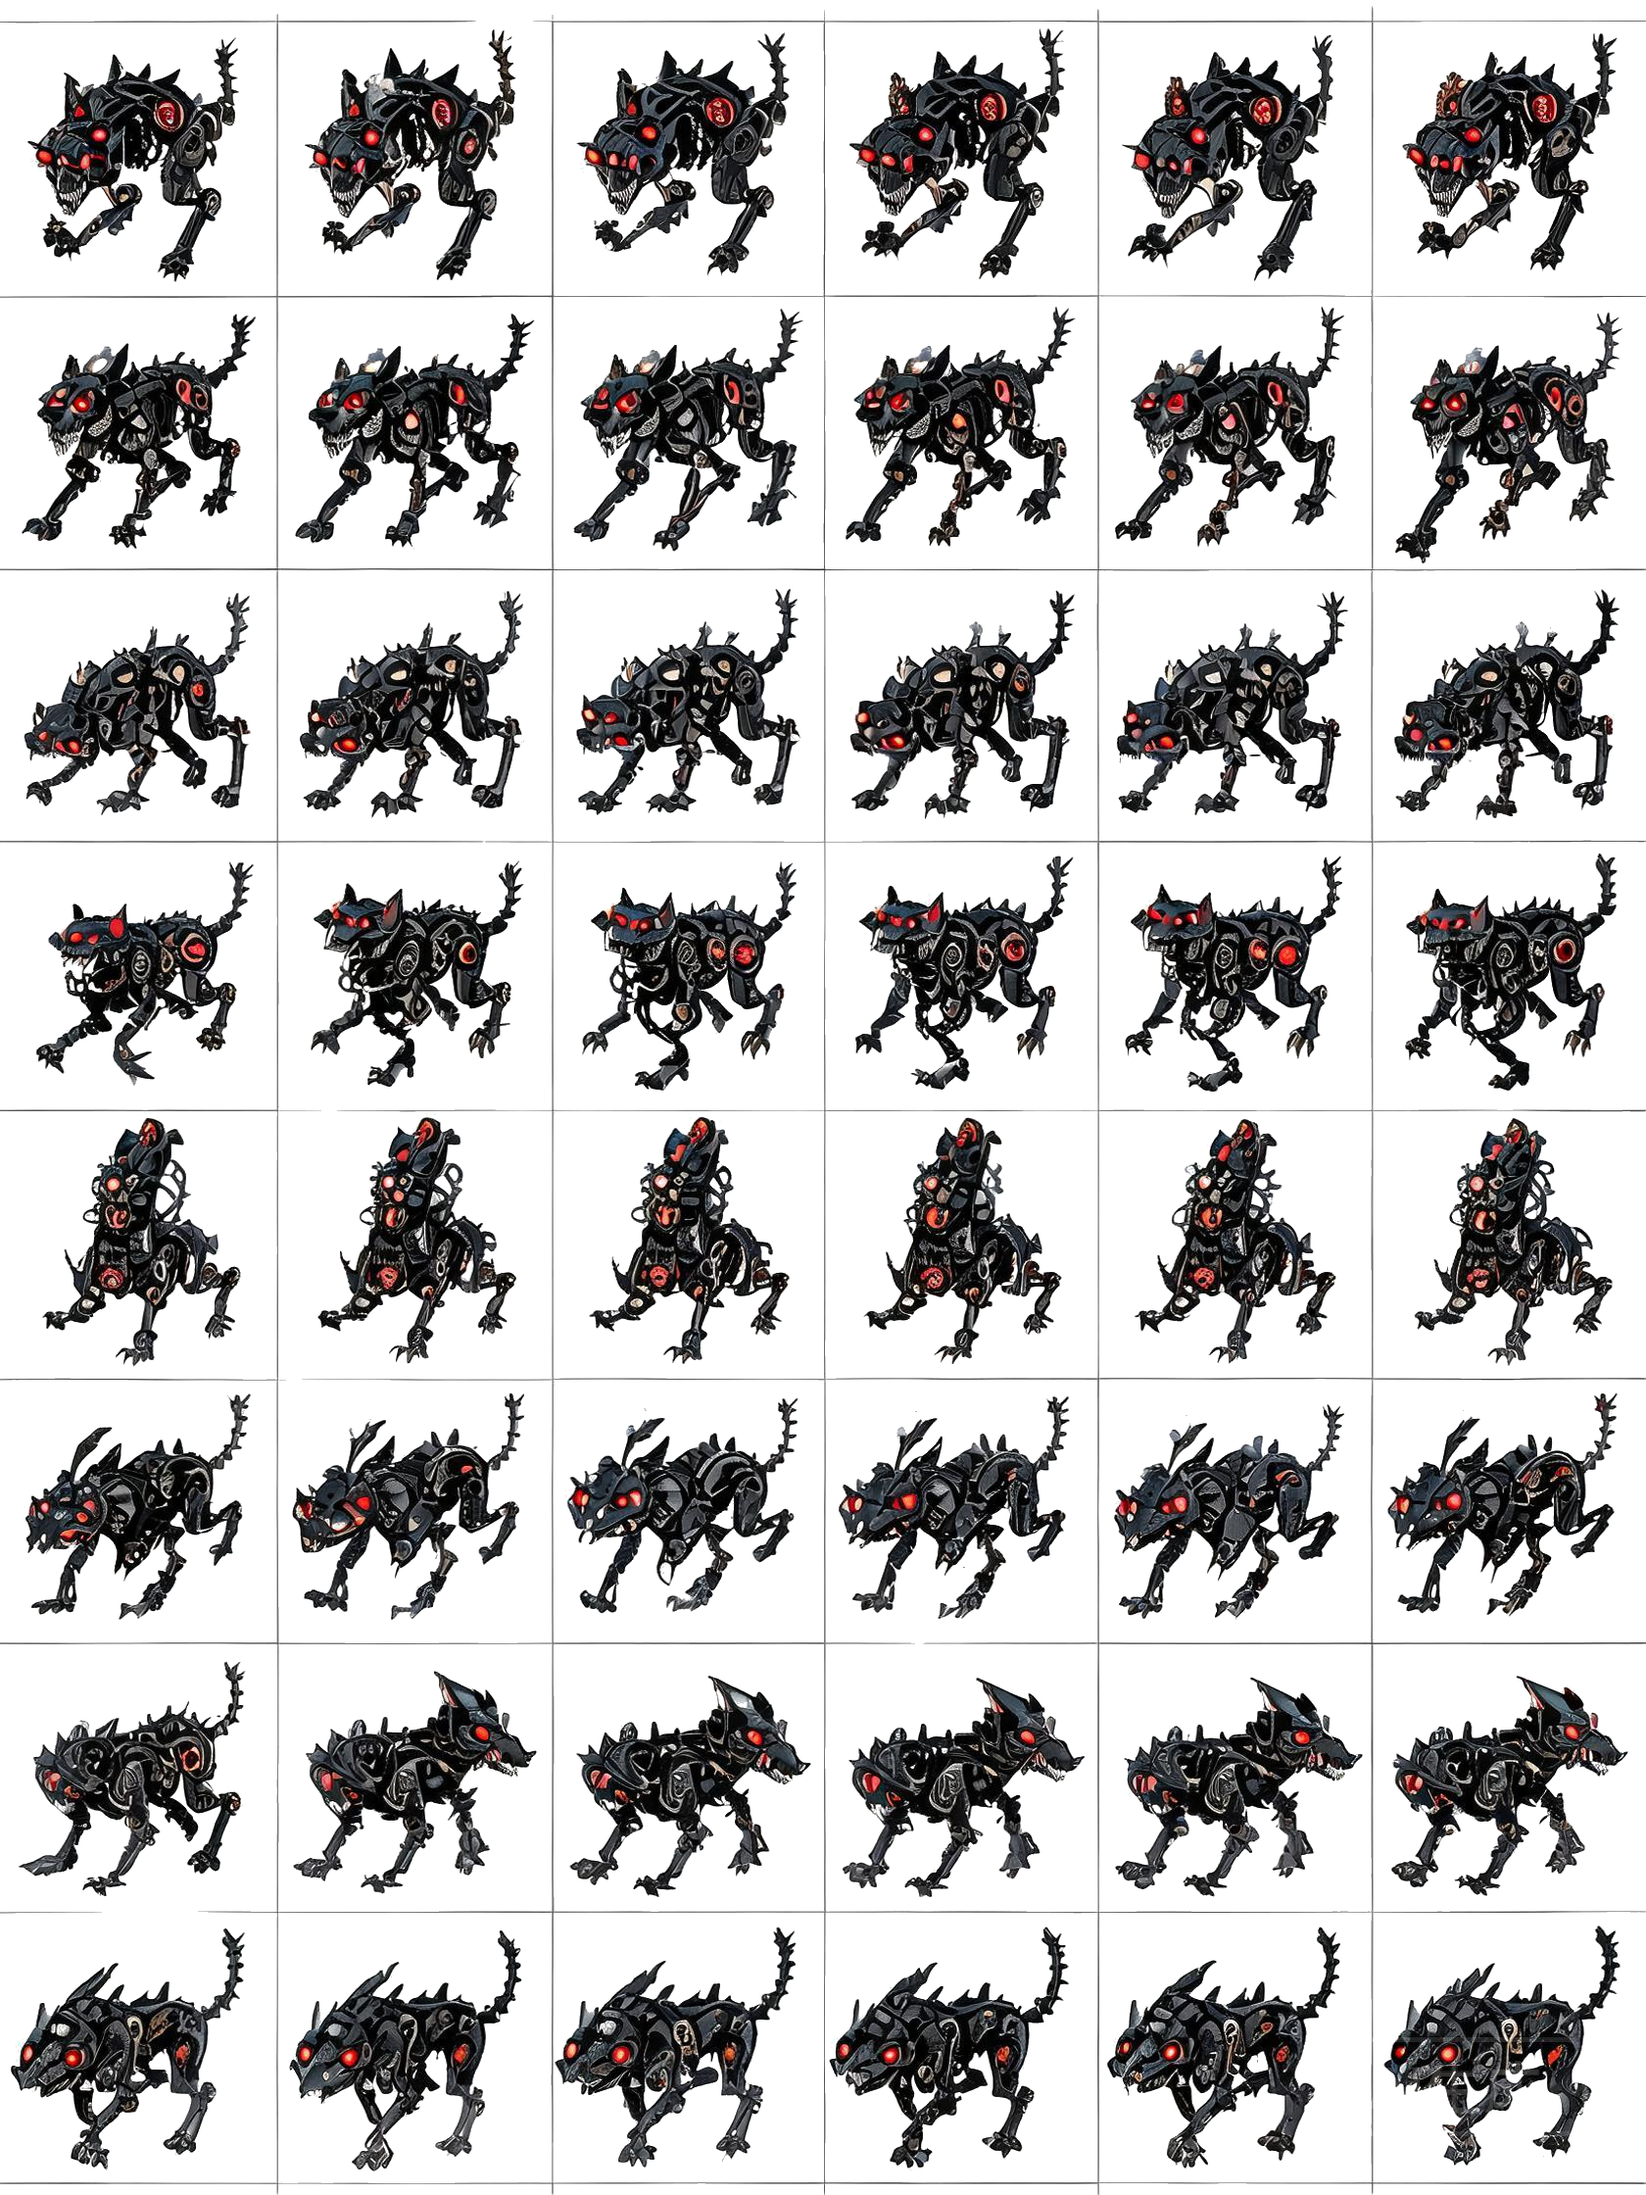
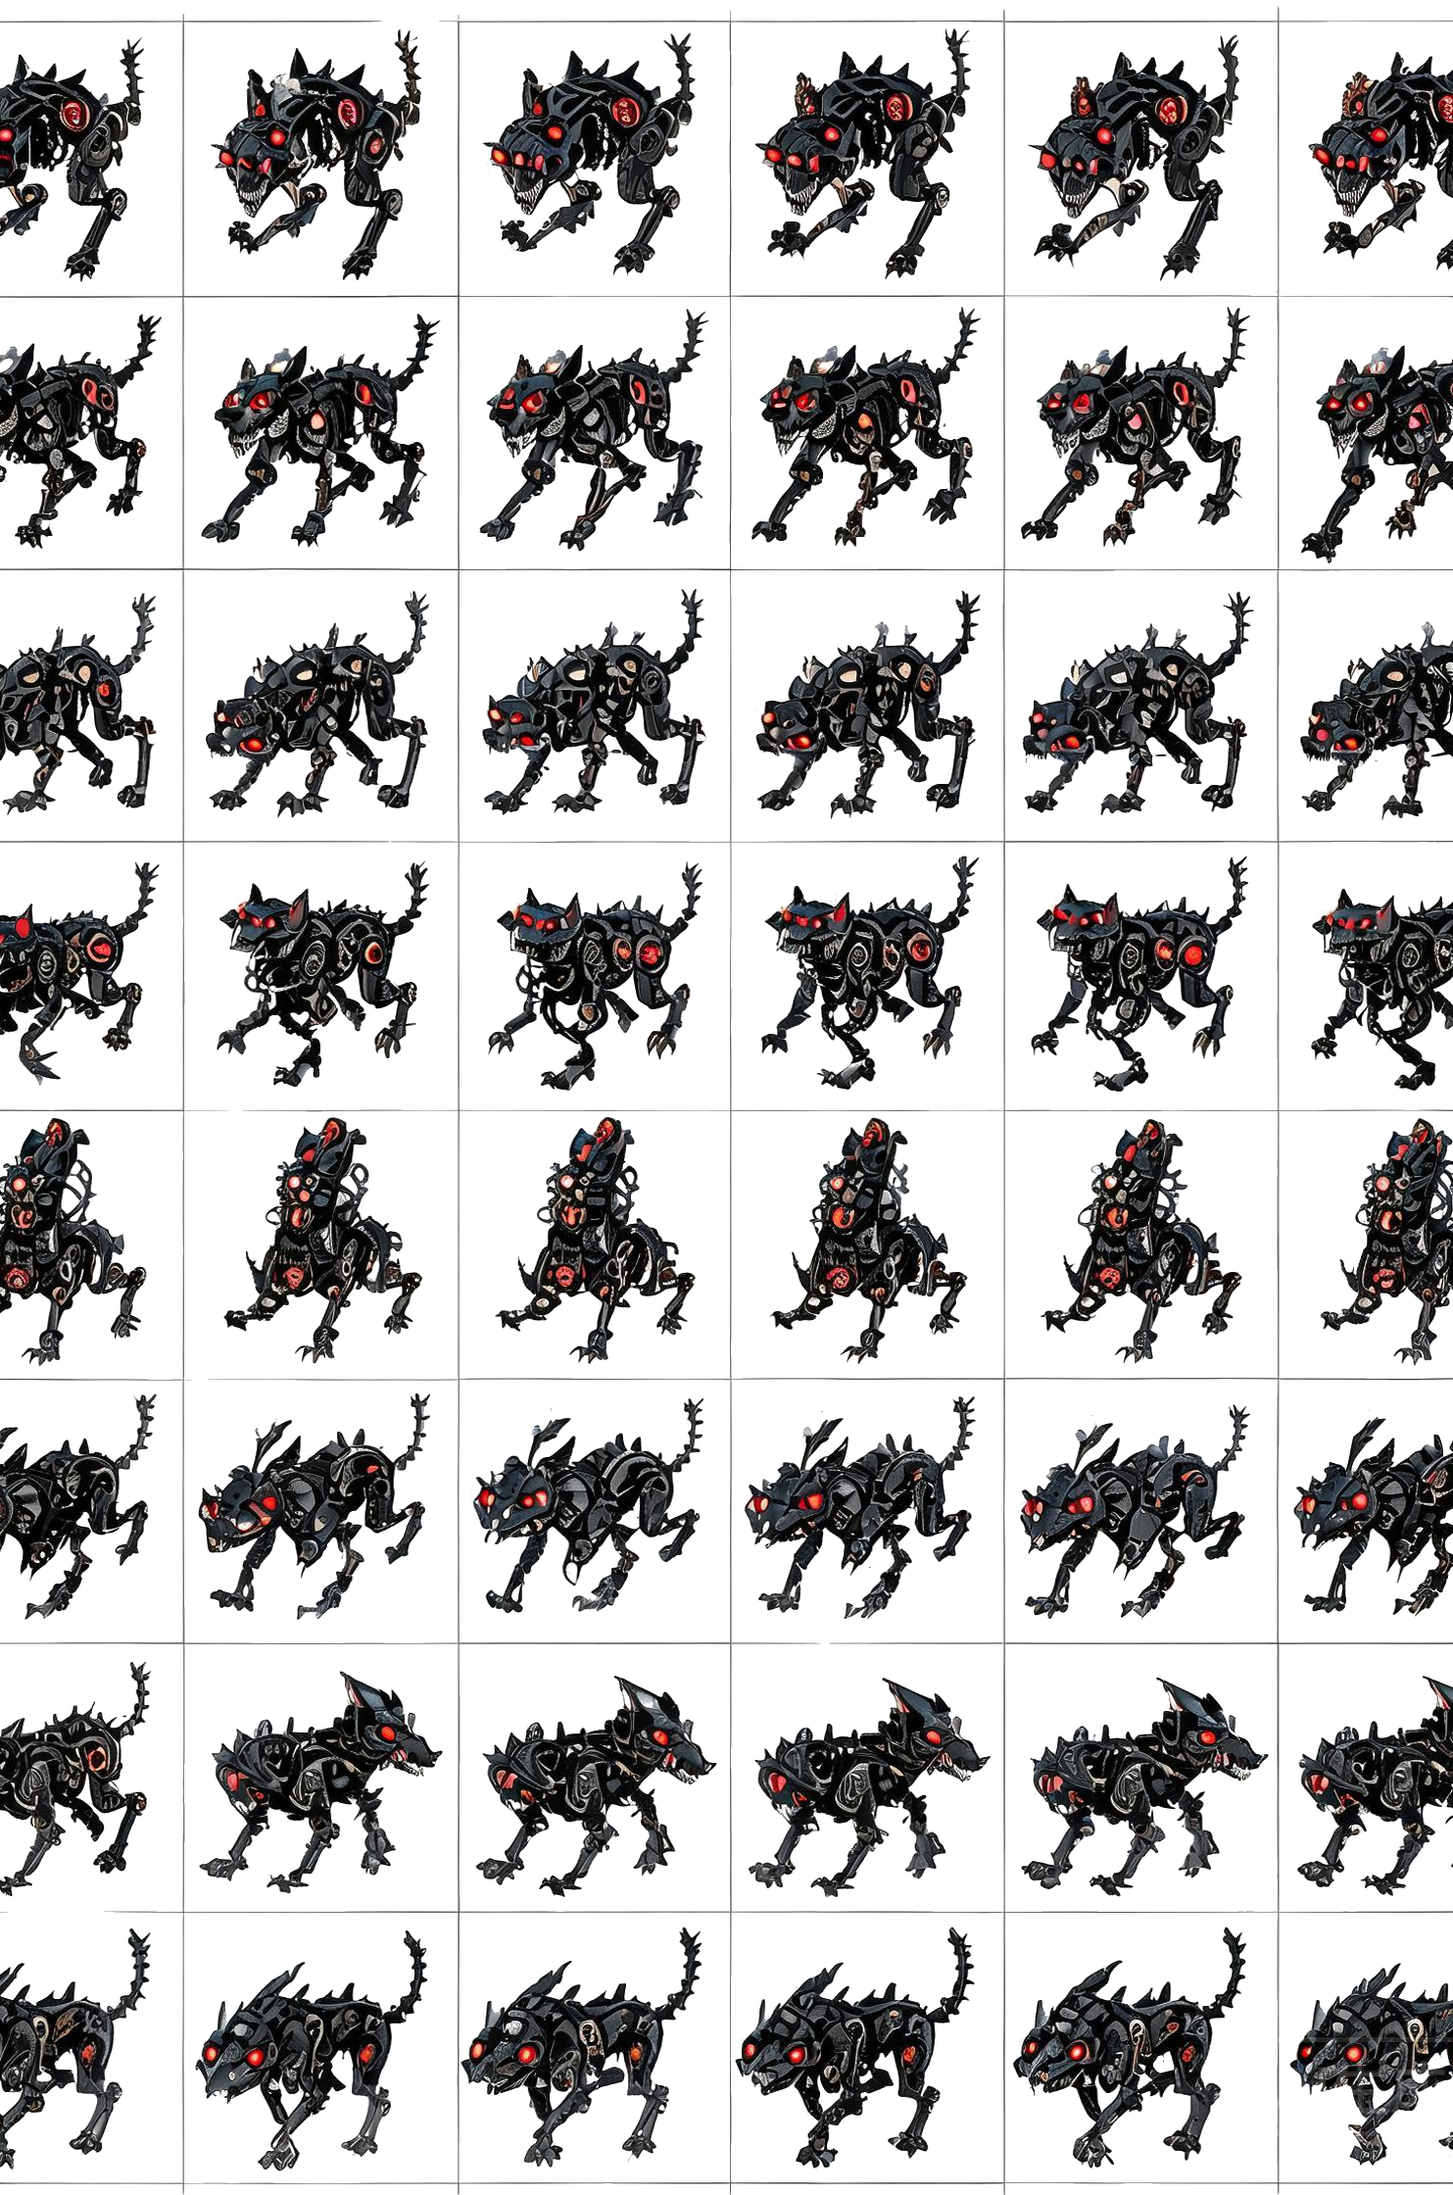
fix: 修复精灵倒立+精确裁剪左侧标签栏
- ImageTexture 默认 flipY=true，offset.y 改为 (rows-1-dirIdx)/rows 反向公式
- 每张PNG按实际帧内容精确裁剪左侧方向标签栏（player_walk裁131px、
  player_action裁121px、enemy1裁96px、enemy2裁73px）
- 裁剪后再分割为6x8网格，确保每帧位置对齐

diff --git a/index.html b/index.html
@@ -321,7 +321,6 @@ function preloadSprites() {
     const L = new THREE.TextureLoader();
     const load = (url) => new Promise(res => {
         L.load(url, tex => {
-            tex.flipY = false;
             tex.magFilter = THREE.NearestFilter;
             tex.minFilter = THREE.NearestFilter;
             tex.generateMipmaps = false;
@@ -350,8 +349,11 @@ function dir8(dx, dz) {
 // 更新精灵帧UV
 function updateSpriteUV(state, tex, cols, rows, frameIdx, dirIdx) {
     if (!tex) return;
+    tex.repeat.set(1 / cols, 1 / rows);
     tex.offset.x = (frameIdx % cols) / cols;
-    tex.offset.y = (dirIdx % rows) / rows;
+    // ImageLoader 默认 flipY=true：纹理 v=0 是图片底部，v=1 是图片顶部
+    // 我们的精灵表行0（图片顶部）= DOWN，需要映射到 offset.y = (rows-1-dirIdx)/rows
+    tex.offset.y = ((rows - 1) - (dirIdx % rows)) / rows;
 }
 
 // ===== 地貌权重（设置页可改，和为 100） =====
